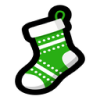
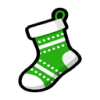
[PJL-017] 트리 영역 차지하는 버그 수정 (#17)
* fix: header 밑으로 트리가 들어가도록 수정

* chore: tree와 card 이미지 수정

* chore: FriendListPage 애니메이션 추가

Changed region(s): [[0.15, 0.03, 0.87, 0.96]]

diff --git a/src/pages/tree/ui/TreePage.module.css b/src/pages/tree/ui/TreePage.module.css
@@ -3,7 +3,7 @@
   width: 100%;
   height: 100%;
   display: flex;
-  justify-content: space-between;
+  justify-content: flex-end;
   flex-direction: column;
 }
 
@@ -19,7 +19,10 @@
 }
 
 .header {
-  position: relative;
+  position: fixed;
+  z-index: 3;
+  top: 0;
+  left: 0;
   width: 100%;
 }
 
@@ -40,7 +43,7 @@
     var(--color-primary) 100%
   );
   padding: 8px;
-  padding-left: 16px;
+  padding-left: 24px;
   border-radius: 0 0 8px 0;
   color: var(--color-secondary-dark);
 }
@@ -114,26 +117,26 @@
 }
 
 .card1 {
-  top: 100px;
+  top: 200px;
   left: 50px;
 }
 
 .card2 {
-  top: 100px;
+  top: 200px;
   left: 150px;
 }
 
 .card3 {
-  top: 200px;
+  top: 300px;
   left: 0px;
 }
 
 .card4 {
-  top: 200px;
+  top: 300px;
   left: 100px;
 }
 
 .card5 {
-  top: 200px;
+  top: 300px;
   left: 200px;
 }

diff --git a/src/pages/intro/ui/IntroPage.module.css b/src/pages/intro/ui/IntroPage.module.css
@@ -4,10 +4,14 @@
   height: 100%;
   display: flex;
   flex-direction: column;
-  justify-content: space-between;
+  justify-content: flex-end;
 }
 
 .header {
+  position: fixed;
+  z-index: 3;
+  top: 0;
+  left: 0;
   width: 100%;
   transition: 1s transform ease;
   transform: translateY(-100%);
@@ -27,8 +31,7 @@
 
     img {
       display: block;
-      max-width: 400px;
-      width: 80%;
+      width: 300px;
       margin: 0 auto;
     }
   }

diff --git a/src/pages/friend-list/ui/FriendList.module.css b/src/pages/friend-list/ui/FriendList.module.css
@@ -15,6 +15,7 @@
   flex-grow: 1;
   padding: 16px;
   padding-bottom: 0;
+  animation: slideIn 1s;
 }
 
 .messages {
@@ -42,4 +43,16 @@
   display: flex;
   flex-direction: column;
   gap: 16px;
+}
+
+@keyframes slideIn {
+  0% {
+    opacity: 0;
+    transform: translateY(10%);
+  }
+
+  100% {
+    opacity: 1;
+    transform: translateY(0);
+  }
 }
